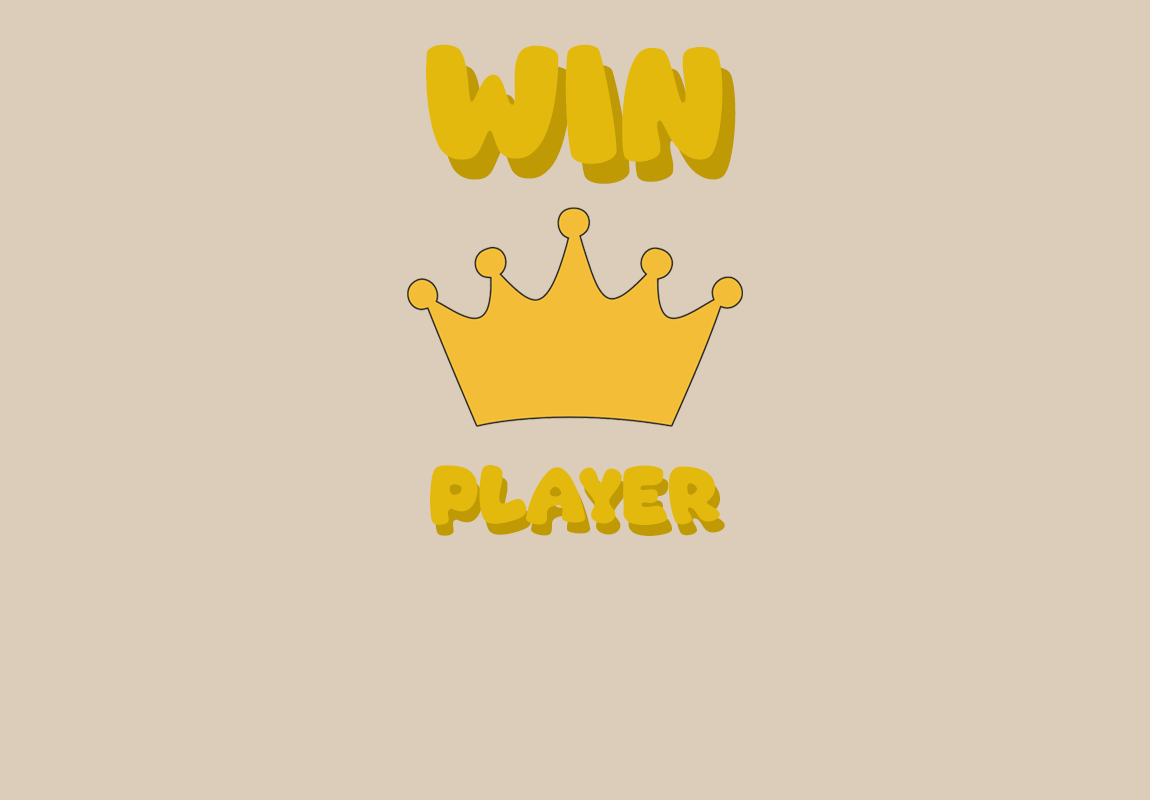
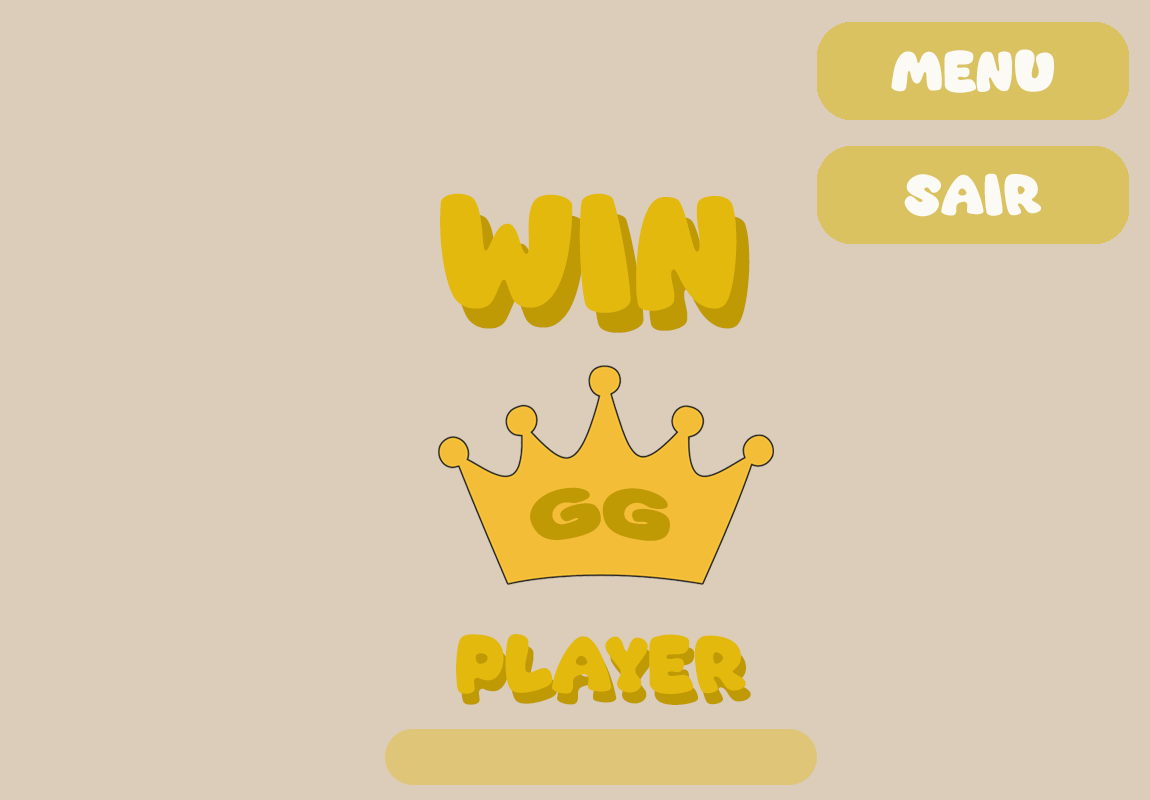
mt coisa

Changed region(s): [[0.3348, 0.0312, 0.6696, 0.75], [0.7, 0.0, 1.0, 0.3125], [0.3348, 0.7812, 0.7304, 1.0]]

diff --git a/interface.py b/interface.py
@@ -23,6 +23,9 @@ pvsp2 = pygame.transform.scale(pvsp1, (1150,800))
 jogo1 = pygame.image.load("JOGO.png")
 jogo2 = pygame.transform.scale(jogo1,(1150,800))
 
+win1 = pygame.image.load("win.png")
+win2 = pygame.transform.scale(win1,(1150,800))
+
 ## Peças
 verde1 = pygame.image.load("Verde.png")
 verde2 = pygame.transform.scale(verde1, (210,200))
@@ -48,7 +51,7 @@ def tela_inicial(estado):
             if event.type == pygame.KEYDOWN or event.type == pygame.MOUSEBUTTONDOWN:
                 inicio=False
                 estado = "Menu"
-                
+
             if event.type == pygame.QUIT:
                 pygame.quit()
                 quit()
@@ -94,7 +97,7 @@ def tela_menu(estado):
         pygame.display.update()
 
         return estado
-    
+
 
 
 def tela_bot(estado):
@@ -121,26 +124,26 @@ def tela_bot(estado):
 
 
             elif event.type == pygame.KEYDOWN:
-                           
+
                 if event.key == pygame.K_BACKSPACE:
-                    
+
                     nome_jogador1 = nome_jogador1[:-1]
-                    
-                
+
+
                 else:
-                    
+
                     nome_jogador1 += event.unicode
-                 
+
         pygame.display.update()
 
         fonte = pygame.font.Font(None, 46)
         texto_jogador1 = fonte.render(nome_jogador1, True, (255,255,255))
-        
+
 
         posicao_texto_jogador1 = texto_jogador1.get_rect(midleft=(1150 // 2 - 350, 800 // 2 + 6))
 
         janela_bot.blit(texto_jogador1, posicao_texto_jogador1)
-      
+
         pygame.display.update()
 
 
@@ -155,17 +158,17 @@ def tela_1v1(estado):
 
     area_j1 = pygame.Rect((206,344),(743,56))
     area_j2 = pygame.Rect((206,495),(743,56))
-    #pygame.draw.rect(janela_bot, (173, 216, 230), (206, 495, 743, 56))    
-    jogador_atual = 1            
+    #pygame.draw.rect(janela_bot, (173, 216, 230), (206, 495, 743, 56))
+    jogador_atual = 1
     nome_jogador1 = ""
     nome_jogador2 = ""
-    
+
     while estado == "1v1":
         for event in pygame.event.get():
             if event.type == pygame.QUIT:
                 pygame.quit()
                 quit()
-            
+
             elif event.type == pygame.MOUSEBUTTONDOWN:
                 if botaoplay2.collidepoint(pygame.mouse.get_pos()):
                     estado = "Jogo1v1"
@@ -178,34 +181,92 @@ def tela_1v1(estado):
                         jogador_atual = 2
                     else:
                         jogador_atual = 1
-                        
+
                 elif event.key == pygame.K_BACKSPACE:
                     if jogador_atual == 1:
                         nome_jogador1 = nome_jogador1[:-1]
                     else:
                         nome_jogador2 = nome_jogador2[:-1]
-                
+
                 else:
                     if jogador_atual == 1:
                         nome_jogador1 += event.unicode
                     else:
                         nome_jogador2 += event.unicode
 
-                
+
         pygame.display.update()
 
         fonte = pygame.font.Font(None, 46)
         texto_jogador1 = fonte.render(nome_jogador1, True, (255,255,255))
         texto_jogador2 = fonte.render(nome_jogador2,True,(255,255,255))
-        
+
 
         posicao_texto_jogador1 = texto_jogador1.get_rect(midleft=(1150 // 2 - 350, 800 // 2 - 23))
         posicao_texto_jogador2 = texto_jogador1.get_rect(midleft=(1150 // 2 - 350, 800 // 2 + 124))
 
         janela_bot.blit(texto_jogador1, posicao_texto_jogador1)
         janela_bot.blit(texto_jogador2, posicao_texto_jogador2)
-      
+
         pygame.display.update()
+
+########
+
+def vitoria(eA1, eA2, eA3, eB1, eB2, eB3, eC1, eC2, eC3, eD1, eD2, eD3):
+
+    v =False
+
+    ## Linhas
+    if (eA1 == eB1 and eA1 == eC1 and eA1 != '' and eB1 != '' and eC1 != ''):
+        v = True
+    if (eB1 == eC1 and eB1 == eD1 and eB1 != '' and eC1 != '' and eD1 != ''):
+        v = True
+    
+    if (eA2 == eB2 and eA2 == eC2 and eA2 != '' and eB2 != '' and eC2 != ''):
+        v = True
+    if (eB2 == eC2 and eB2 == eD2 and eB2 != '' and eC2 != '' and eD2 != ''):
+        v = True
+
+    if (eA3 == eB3 and eA3 == eC3 and eA3 != '' and eB3 != '' and eC3 != ''):
+        v = True
+    if (eB3 == eC3 and eB3 == eD3 and eB3 != '' and eC3 != '' and eD3 != ''):
+        v = True
+    
+
+    ## Colunas
+    if (eA1 == eA2 and eA1 == eA3 and eA1 != '' and eA2 != '' and eA3 != ''):
+        v = True
+    
+    if (eB1 == eB2 and eB1 == eB3 and eB1 != '' and eB2 != '' and eB3 != ''):
+        v = True
+
+    if (eC1 == eC2 and eC1 == eC3 and eC1 != '' and eC2 != '' and eC3 != ''):
+        v = True
+
+    if (eD1 == eD2 and eD1 == eD3 and eD1 != '' and eD2 != '' and eD3 != ''):
+        v = True
+
+    ## Diagonais
+    if (eA1 == eB2 and eA1 == eC3 and eA1 != '' and eB2 != '' and eC3 != ''):
+        v = True
+    if (eB1 == eC2 and eB1== eD3 and eB1 != '' and eC2 != '' and eD3 != ''):
+        v = True
+    if (eC1 == eB2 and eC1 == eA3 and eC1 != '' and eB2 != '' and eA3 != ''):
+        v = True
+    if (eD1 == eC2 and eD1 == eB3 and eD1 != '' and eC2 != '' and eB3 != ''):
+        v = True
+
+
+
+    if (v == True):
+        print("\n\nFim do jogo! Vitória")
+
+
+        return True
+
+    return False
+        
+    
 
 
 def changeplayer(p1, p2, janela_bot):
@@ -237,10 +298,11 @@ def tela_JogoB(estado):
 
     p1 = False
     p2 = False
+    p_win = ''
 
+    win =  False
 
-
-    #pygame.draw.rect(janela_bot, (173, 216, 230), (400, 735, 400, 45)) 
+    #pygame.draw.rect(janela_bot, (173, 216, 230), (400, 735, 400, 45))
     #janela_bot.blit(vermelho2,(367, 310))
 
     ## Areas de Jogo
@@ -283,7 +345,7 @@ def tela_JogoB(estado):
                 pygame.quit()
                 quit()
 
-
+            changeplayer(p1, p2, janela_bot)
 
             if event.type == pygame.MOUSEBUTTONDOWN:
                 if A1.collidepoint(pygame.mouse.get_pos()):
@@ -300,7 +362,7 @@ def tela_JogoB(estado):
                             changeplayer(p1, p2, janela_bot)
                             p2 = True
                             p1 = False
-                            
+
                     elif eA1 == 'G':
                         pygame.draw.rect(janela_bot, (197, 188, 151), (170, 163, 180, 150))
                         janela_bot.blit(amarela2,(170, 150))
@@ -422,7 +484,7 @@ def tela_JogoB(estado):
                             changeplayer(p1, p2, janela_bot)
                             p2 = True
                             p1 = False
-                    
+
 #################### B
                 if B1.collidepoint(pygame.mouse.get_pos()):
                     if eB1 == '':
@@ -700,7 +762,7 @@ def tela_JogoB(estado):
                             p2 = True
                             p1 = False
 
-            
+
 
 #################### D
                 if D1.collidepoint(pygame.mouse.get_pos()):
@@ -840,12 +902,74 @@ def tela_JogoB(estado):
                             p2 = True
                             p1 = False
 
+
+               
+
+                win = vitoria(eA1, eA2, eA3, eB1, eB2, eB3, eC1, eC2, eC3, eD1, eD2, eD3)
+                
+                
+                if(win == True):
+
+                    
+                    A1 = None
+                    A2 = None
+                    A3 = None
+                    B1 = None
+                    B2 = None
+                    B3 = None
+                    C1 = None
+                    C2 = None
+                    C3 = None
+                    D1 = None
+                    D2 = None
+                    D3 = None
+                    
+                    janela_bot = pygame.display.set_mode((1150,800))
+                    pygame.display.set_caption("Jogo dos Semáforos")
+                    janela_bot.blit(win2,(0,0))
+
+                    if (p1 == True):
+                        p_win = 'Player 1'
+                    elif (p2 == True):
+                        p_win = 'Player 2'
+
+                    fonte = pygame.font.Font(None, 46)
+                    texto = fonte.render(p_win, True, (255,255,255))
+
+                    pygame.draw.rect(janela_bot, (222, 197, 119), (400, 735, 400, 45))
+
+                    pos = texto.get_rect(midleft=(1150 // 2 - 30, 800 // 2 + 360))
+
+                    janela_bot.blit(texto, pos)
+
+                    estado = "Vitoria"
+
+                    tela_vitoria(estado)
+
+
                 
 
         pygame.display.update()
 
-estado = "JogoB"
-tela_JogoB(estado)
+
+def tela_vitoria(estado):
+    janela_bot = pygame.display.set_mode((1150,800))
+    pygame.display.set_caption("Jogo dos Semáforos")
+    janela_bot.blit(win2,(0,0))
+
+    while estado == "Vitoria":
+        for event in pygame.event.get():
+            if event.type == pygame.QUIT:
+                pygame.quit()
+                quit()
+            
+            
+        
+
+
+if (estado != "Vitoria"):
+    estado = "JogoB"
+    tela_JogoB(estado)
 
 # while True:
 #     if estado == "Capa":
